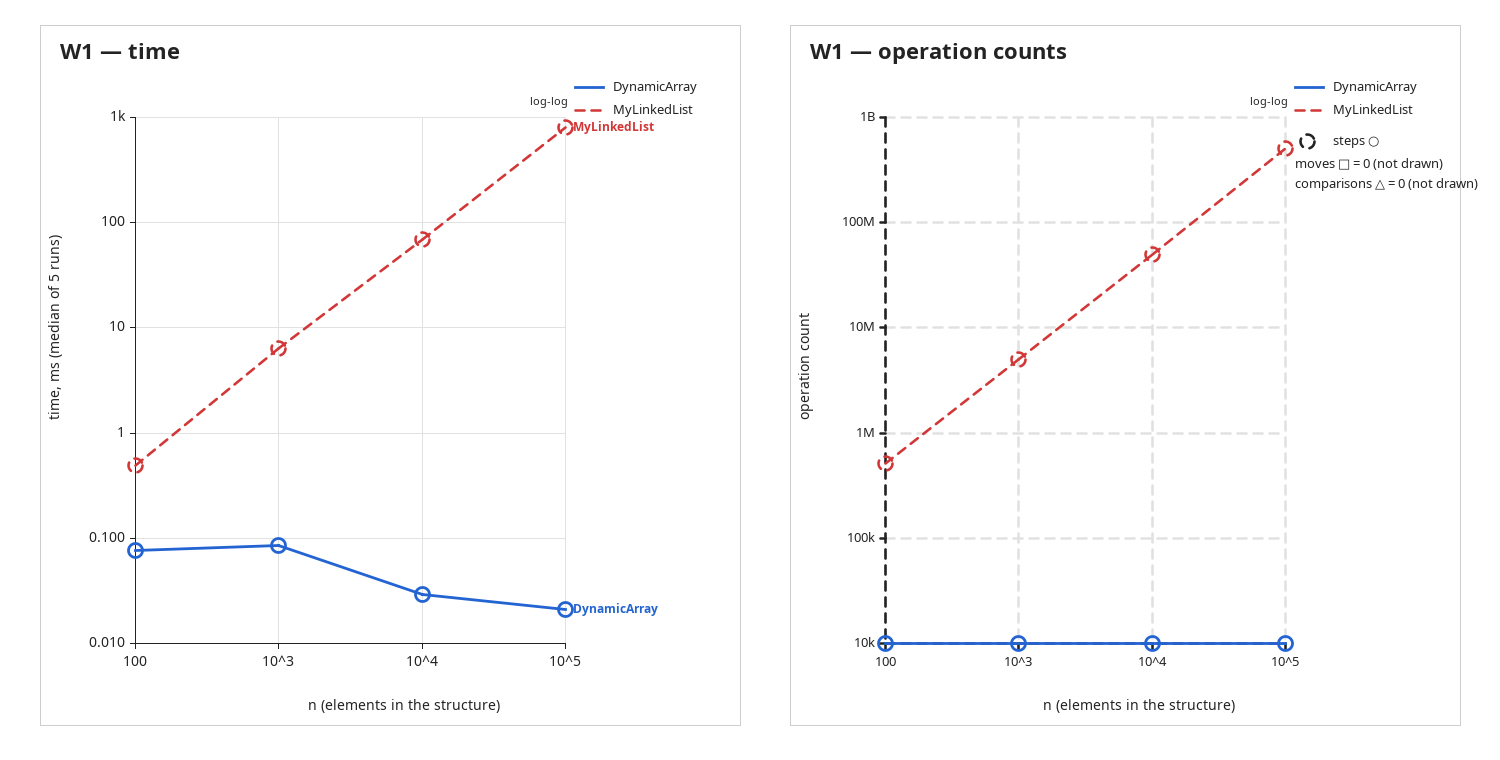
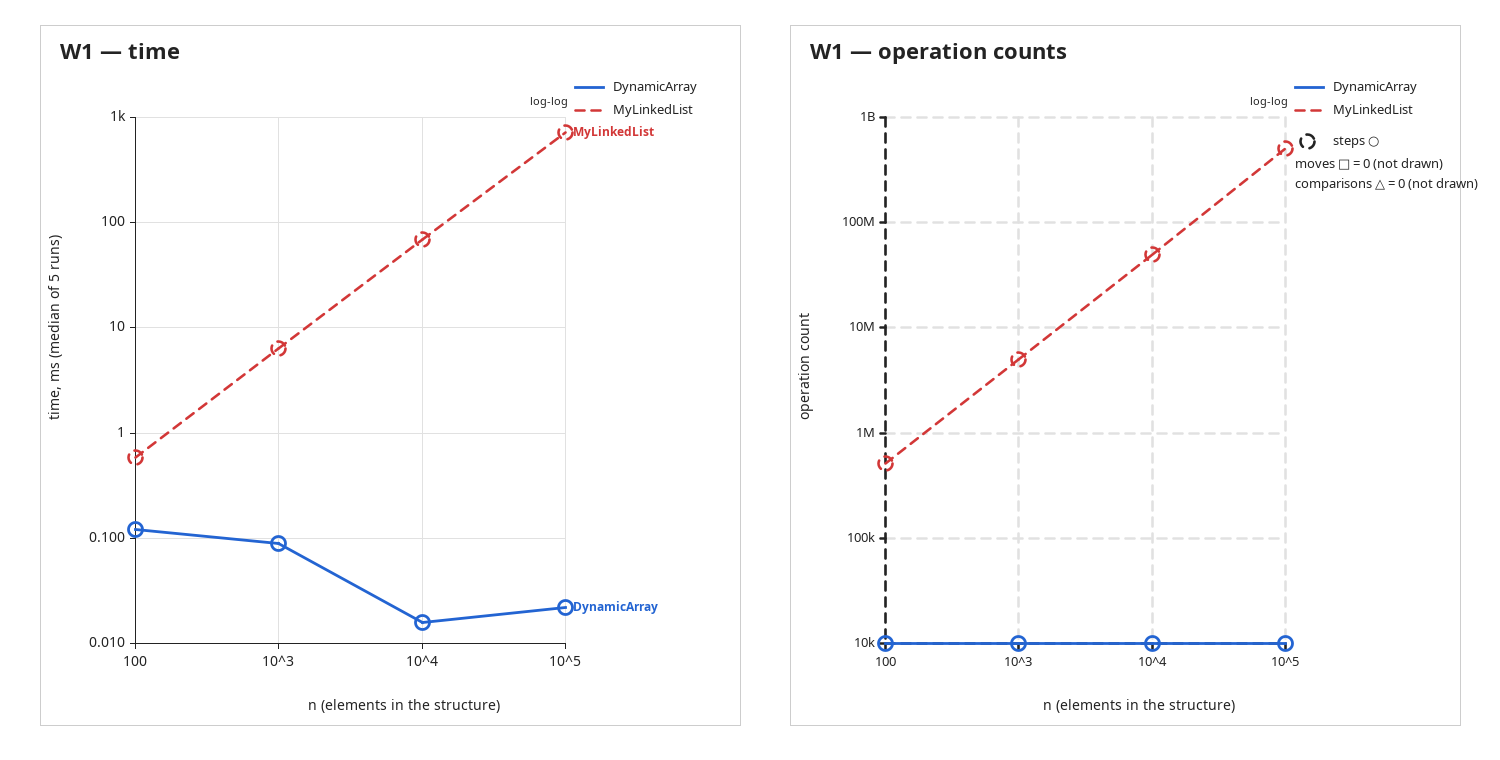
docs(report): sync results and regenerate plots

diff --git a/REPORT.md b/REPORT.md
@@ -96,31 +96,31 @@ The four PNG files below are generated directly from the current `results/result
 
 ### W1 — Random access
 
-At `n=100000`, `DynamicArray` takes **0.019 ms** and performs **10,000 steps**, while `MyLinkedList` takes **796.886 ms** and performs **502,499,208 steps**. The list's `moves` are **0**, because `get(i)` only reads links and does not modify them.
+At `n=100000`, `DynamicArray` takes **0.022 ms** and performs **10,000 steps**, while `MyLinkedList` takes **713.909 ms** and performs **502,499,208 steps**. The list's `moves` are **0**, because `get(i)` only reads links and does not modify them.
 
 ![W1 benchmark](results/plots/w1.png)
 
 ### W2 — Search
 
-At `n=100000`, both structures perform **74,446,172 steps and comparisons**, while `moves = 0` for both. The measured times are **52.274 ms** for `DynamicArray` and **123.502 ms** for `MyLinkedList`.
+At `n=100000`, both structures perform **74,446,172 steps and comparisons**, while `moves = 0` for both. The measured times are **32.447 ms** for `DynamicArray` and **109.406 ms** for `MyLinkedList`.
 
 ![W2 benchmark](results/plots/w2.png)
 
 ### W3 — Indexed insertion and removal
 
-At `n=100000`, W3 `head` gives `MyLinkedList` **2,000 steps and 2,000 moves**, while `DynamicArray` needs **201,001,000 steps and 200,999,000 moves**. For W3 `middle`, the linked list has **100,002,000 steps and 3,000 moves**; the array has **101,001,000 steps and 100,999,000 moves**. The corresponding times are **52.557 ms vs 0.021 ms** at `head`, and **27.136 ms vs 131.204 ms** at `middle` for array vs list.
+At `n=100000`, W3 `head` gives `MyLinkedList` **2,000 steps and 2,000 moves**, while `DynamicArray` needs **201,001,000 steps and 200,999,000 moves**. For W3 `middle`, the linked list has **100,002,000 steps and 3,000 moves**; the array has **101,001,000 steps and 100,999,000 moves**. The corresponding times are **54.985 ms vs 0.013 ms** at `head`, and **26.734 ms vs 139.173 ms** at `middle` for array vs list.
 
 ![W3 benchmark](results/plots/w3.png)
 
 ### W4 — Priority processing
 
-At `n=100000`, the complete heap workload takes **14.241 ms** and records **3,423,870 steps**, **1,793,043 moves**, and **3,060,040 comparisons**.
+At `n=100000`, the complete heap workload takes **12.433 ms** and records **3,423,870 steps**, **1,793,043 moves**, and **3,060,040 comparisons**.
 
 ![W4 benchmark](results/plots/w4.png)
 
 ### Discussion
 
-`DynamicArray.get(i)` is much faster than `MyLinkedList.get(i)` because the array reaches the requested cell directly, while the list must follow about `i` links. In W1 at `n=100000`, this difference appears as 10,000 steps for the array versus 502,499,208 steps for the list. A cache line is commonly around 64 bytes, so it can hold 16 four-byte `int` values from a contiguous array and bring neighbouring values into cache together. This spatial locality helps the array even when the access pattern becomes less favourable than a single sequential scan. A linked list instead performs pointer chasing, and each node also has object/reference overhead, so the nodes are much less compact than four-byte array elements. This creates more memory traffic and can increase garbage-collector pressure. In W2, both structures perform the same 74,446,172 comparisons, but the array still finishes faster, 52.274 ms versus 123.502 ms, showing the effect of memory locality and object indirection. In W3 at the head, the linked list is better because only 2,000 references/elements are changed, while the array shifts about 201 million positions. In W3 at the middle, the list loses because it must first traverse to the insertion/removal position, giving about 100 million steps despite only 3,000 reference updates. Therefore `MyLinkedList` is attractive for frequent head insertions/removals or when a node reference is already available, while `DynamicArray` is preferable for indexed access and compact storage. `MinHeap` is appropriate when the task repeatedly needs the minimum, because `peekMin()` is Θ(1) and `extractMin()` restores the heap in Θ(log n). The benchmark also illustrates why asymptotic complexity and real running time should be discussed together: memory layout and JVM behaviour affect the measured constants.
+`DynamicArray.get(i)` is much faster than `MyLinkedList.get(i)` because the array reaches the requested cell directly, while the list must follow about `i` links. In W1 at `n=100000`, this difference appears as 10,000 steps for the array versus 502,499,208 steps for the list. A cache line is commonly around 64 bytes, so it can hold 16 four-byte `int` values from a contiguous array and bring neighbouring values into cache together. This spatial locality helps the array even when the access pattern becomes less favourable than a single sequential scan. A linked list instead performs pointer chasing, and each node also has object/reference overhead, so the nodes are much less compact than four-byte array elements. This creates more memory traffic and can increase garbage-collector pressure. In W2, both structures perform the same 74,446,172 comparisons, but the array still finishes faster, 32.447 ms versus 109.406 ms, showing the effect of memory locality and object indirection. In W3 at the head, the linked list is better because only 2,000 references/elements are changed, while the array shifts about 201 million positions. In W3 at the middle, the list loses because it must first traverse to the insertion/removal position, giving about 100 million steps despite only 3,000 reference updates. Therefore `MyLinkedList` is attractive for frequent head insertions/removals or when a node reference is already available, while `DynamicArray` is preferable for indexed access and compact storage. `MinHeap` is appropriate when the task repeatedly needs the minimum, because `peekMin()` is Θ(1) and `extractMin()` restores the heap in Θ(log n). The benchmark also illustrates why asymptotic complexity and real running time should be discussed together: memory layout and JVM behaviour affect the measured constants.
 
 ## 7. Testing
 
